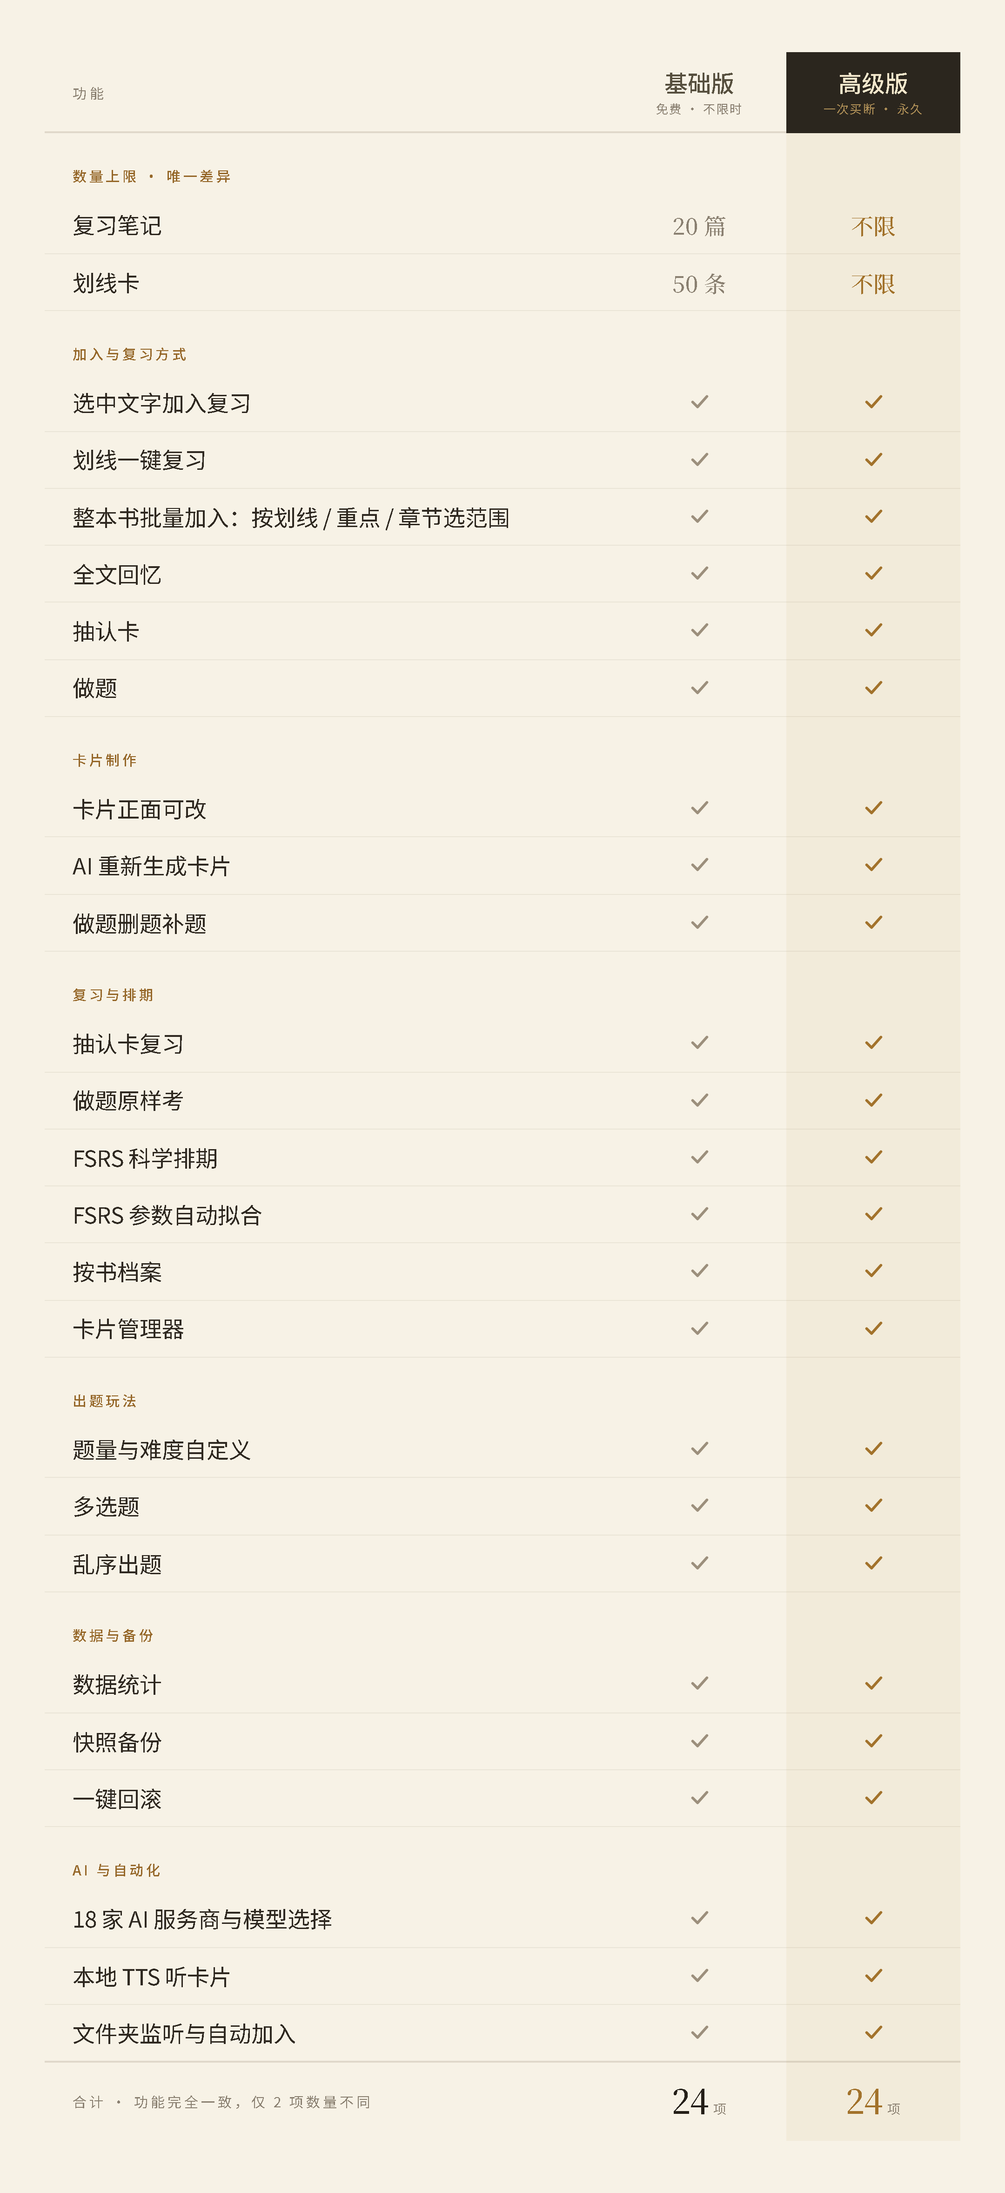
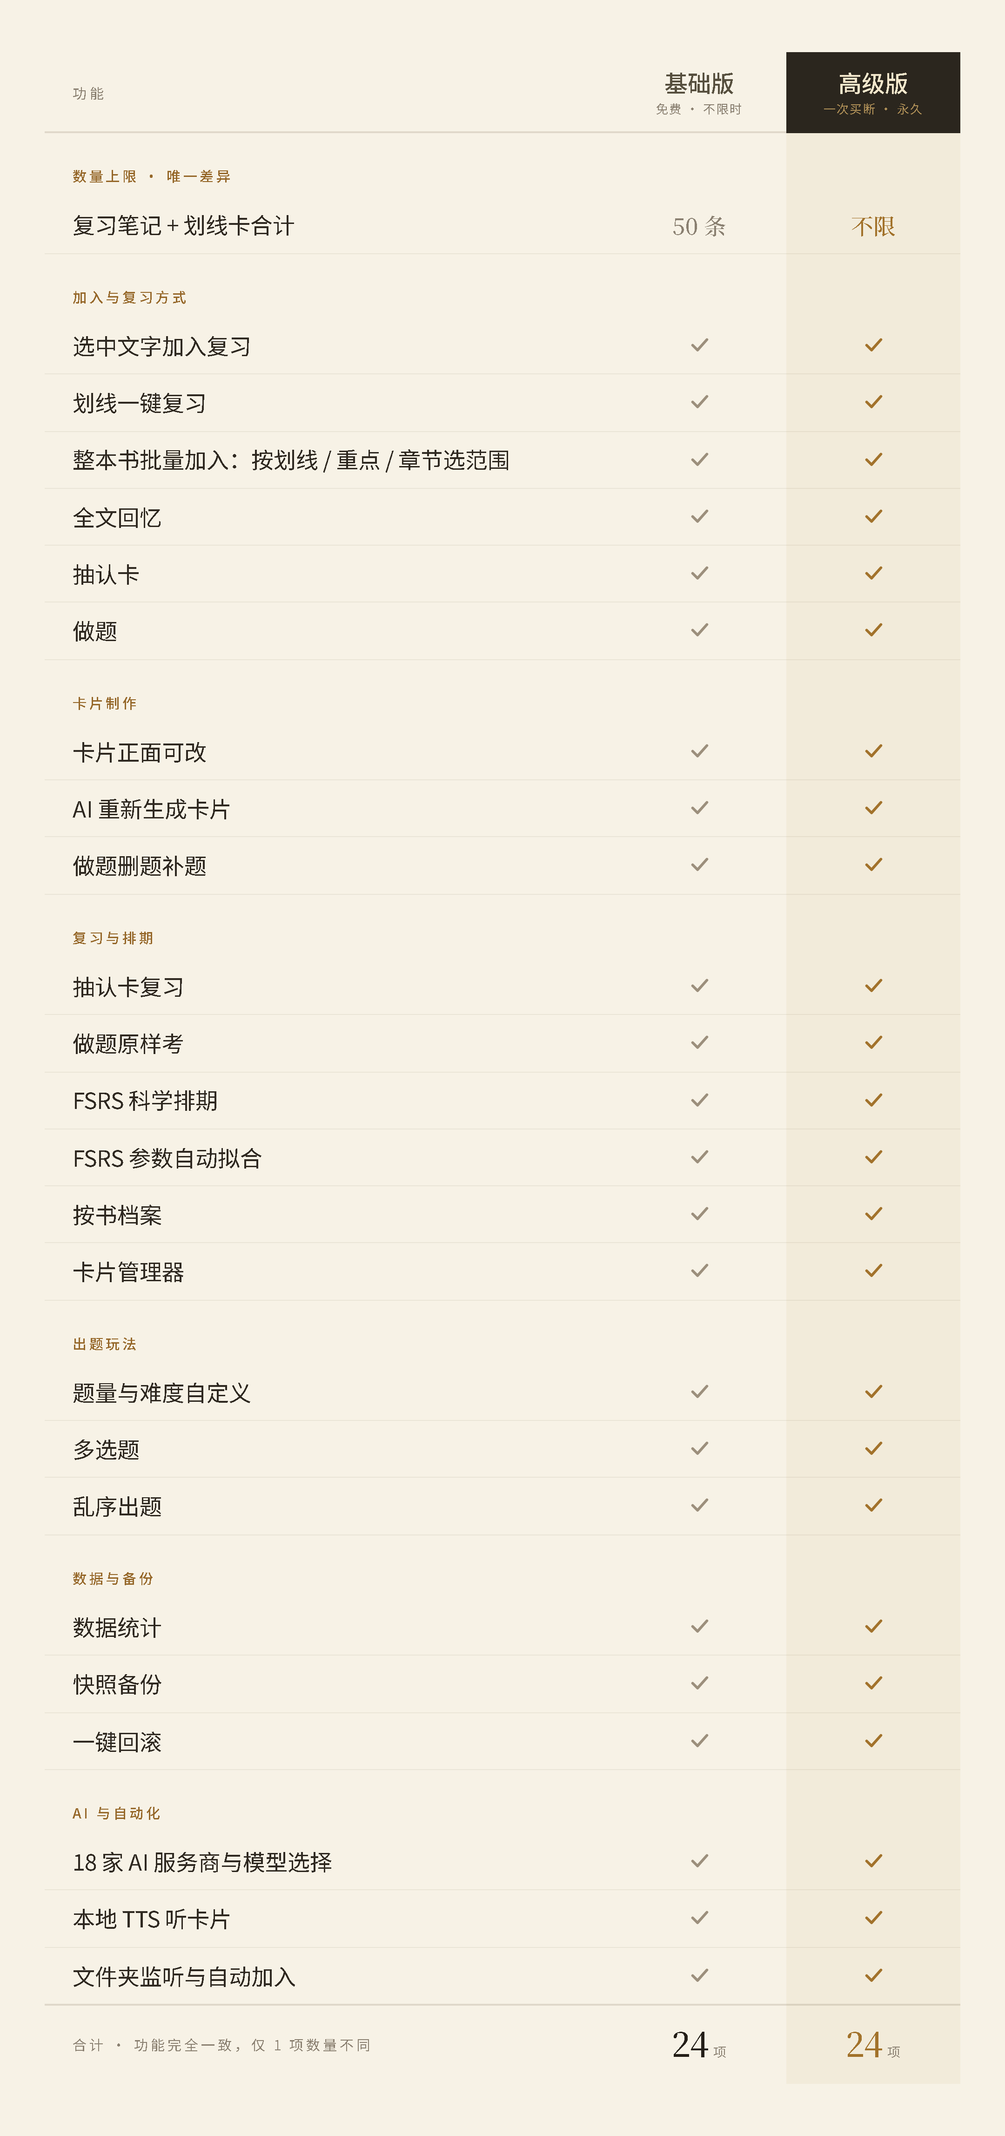
feat(quota): 基础版额度提到笔记与划线合计 50 条，README/弹窗/对照图同步

diff --git a/tests/entitlement.test.ts b/tests/entitlement.test.ts
@@ -20,23 +20,23 @@ afterEach(async () => {
 });
 
 describe('基础版上限 · 笔记 + 划线合计', () => {
-  it('合计上限是 20 条，不再分笔记和划线', () => {
-    expect(FREE_ITEM_LIMIT).toBe(20);
-    expect(totalOf({ notes: 12, cards: 8 })).toBe(20);
+  it('合计上限是 50 条，不再分笔记和划线', () => {
+    expect(FREE_ITEM_LIMIT).toBe(50);
+    expect(totalOf({ notes: 30, cards: 20 })).toBe(50);
     expect(totalOf({ notes: 0, cards: 50 })).toBe(50);
   });
 
-  it('单条：合计第 20 条还能加，第 21 条开始拦', () => {
+  it('单条：合计第 50 条还能加，第 51 条开始拦', () => {
     expect(canAdd({ notes: 0, cards: 0 })).toBe(true);
-    expect(canAdd({ notes: 19, cards: 0 })).toBe(true);
-    expect(canAdd({ notes: 10, cards: 10 })).toBe(false);
-    expect(canAdd({ notes: 0, cards: 20 })).toBe(false);
-    expect(canAdd({ notes: 0, cards: 21 })).toBe(false);
+    expect(canAdd({ notes: 49, cards: 0 })).toBe(true);
+    expect(canAdd({ notes: 30, cards: 20 })).toBe(false);
+    expect(canAdd({ notes: 0, cards: 50 })).toBe(false);
+    expect(canAdd({ notes: 0, cards: 51 })).toBe(false);
   });
 
   it('两类不再各数各的：笔记没满但合计满了照样拦', () => {
-    expect(quotaBlock({ notes: 5, cards: 15 }).ok).toBe(false);
-    expect(quotaBlock({ notes: 19, cards: 0 }).ok).toBe(true);
+    expect(quotaBlock({ notes: 5, cards: 45 }).ok).toBe(false);
+    expect(quotaBlock({ notes: 49, cards: 0 }).ok).toBe(true);
   });
 
   it('老数据超过上限时按已满处理，但不要求删除', () => {
@@ -47,26 +47,26 @@ describe('基础版上限 · 笔记 + 划线合计', () => {
   });
 
   it('还剩几个：已满给 0，不会给负数', () => {
-    expect(remaining({ notes: 0, cards: 0 })).toBe(20);
-    expect(remaining({ notes: 5, cards: 10 })).toBe(5);
-    expect(remaining({ notes: 25, cards: 0 })).toBe(0);
+    expect(remaining({ notes: 0, cards: 0 })).toBe(50);
+    expect(remaining({ notes: 5, cards: 10 })).toBe(35);
+    expect(remaining({ notes: 55, cards: 0 })).toBe(0);
   });
 
   it('用量一眼看清：已用合计、上限合计、还剩几条', () => {
-    expect(quotaInfo({ notes: 5, cards: 3 })).toEqual({ used: 8, limit: 20, remaining: 12, full: false });
-    expect(quotaInfo({ notes: 10, cards: 10 })).toEqual({ used: 20, limit: 20, remaining: 0, full: true });
+    expect(quotaInfo({ notes: 5, cards: 3 })).toEqual({ used: 8, limit: 50, remaining: 42, full: false });
+    expect(quotaInfo({ notes: 25, cards: 25 })).toEqual({ used: 50, limit: 50, remaining: 0, full: true });
   });
 
   it('老数据超过上限时用量照实报，不会把已用的数字藏起来', () => {
-    const info = quotaInfo({ notes: 26, cards: 0 });
-    expect(info.used).toBe(26);
+    const info = quotaInfo({ notes: 76, cards: 0 });
+    expect(info.used).toBe(76);
     expect(info.full).toBe(true);
     expect(info.remaining).toBe(0);
   });
 
-  it('拦下时说明「已用 20/20」，并且明说已有数据不会被删', () => {
-    const block = quotaBlock({ notes: 20, cards: 0 });
-    expect(block.message).toContain('已用 20/20');
+  it('拦下时说明「已用 50/50」，并且明说已有数据不会被删', () => {
+    const block = quotaBlock({ notes: 50, cards: 0 });
+    expect(block.message).toContain('已用 50/50');
     expect(block.message).toContain('不会被删');
     expect(block.message).toContain('激活高级版');
   });
@@ -78,32 +78,32 @@ describe('批量导入 · 超一次宽限', () => {
     expect(q).toEqual({ allowed: 8, overLimit: false });
   });
 
-  it('合计没满、加完越过 20：整批放行，但标超限让调用方提醒', () => {
-    const q = batchQuota({ notes: 5, cards: 5 }, 20);
-    expect(q).toEqual({ allowed: 20, overLimit: true });
+  it('合计没满、加完越过 50：整批放行，但标超限让调用方提醒', () => {
+    const q = batchQuota({ notes: 5, cards: 5 }, 50);
+    expect(q).toEqual({ allowed: 50, overLimit: true });
   });
 
-  it('刚好加到 20：放行但不算超限', () => {
-    expect(batchQuota({ notes: 10, cards: 0 }, 10)).toEqual({ allowed: 10, overLimit: false });
+  it('刚好加到 50：放行但不算超限', () => {
+    expect(batchQuota({ notes: 40, cards: 0 }, 10)).toEqual({ allowed: 10, overLimit: false });
   });
 
   it('导入前合计已满：整批拒绝，一条都不放', () => {
-    const q = batchQuota({ notes: 12, cards: 8 }, 5);
+    const q = batchQuota({ notes: 30, cards: 20 }, 5);
     expect(q).toEqual({ allowed: 0, overLimit: true });
   });
 
   it('迁移进来的超限老数据：再导入整批拒绝', () => {
-    expect(batchQuota({ notes: 26, cards: 0 }, 3).allowed).toBe(0);
+    expect(batchQuota({ notes: 76, cards: 0 }, 3).allowed).toBe(0);
   });
 
   it('空批直接放行，不算超限', () => {
-    expect(batchQuota({ notes: 20, cards: 0 }, 0)).toEqual({ allowed: 0, overLimit: false });
+    expect(batchQuota({ notes: 50, cards: 0 }, 0)).toEqual({ allowed: 0, overLimit: false });
   });
 
   it('提醒文案说清「这次全进、下次要升级」，不提拒绝、不含 emoji', () => {
-    const msg = overLimitMessage({ notes: 5, cards: 5 }, 20);
-    expect(msg).toContain('20 条已全部加入');
-    expect(msg).toContain('30 条');
+    const msg = overLimitMessage({ notes: 5, cards: 5 }, 50);
+    expect(msg).toContain('50 条已全部加入');
+    expect(msg).toContain('60 条');
     expect(msg).toContain('下次再加入需要先升级高级版');
     expect(msg).not.toContain('拒绝');
     expect(msg).not.toContain('未加入');
@@ -116,14 +116,14 @@ describe('高级版', () => {
     expect(state.paid).toBe(true);
     expect(canAdd({ notes: 9999, cards: 9999 })).toBe(true);
     expect(remaining({ notes: 9999, cards: 9999 })).toBe(Infinity);
-    expect(batchQuota({ notes: 9999, cards: 9999 }, 50)).toEqual({ allowed: 50, overLimit: false });
+    expect(batchQuota({ notes: 9999, cards: 9999 }, 80)).toEqual({ allowed: 80, overLimit: false });
     expect(licenseSummary()).toContain('高级版');
   });
 
   it.runIf(HAS_KEYS)('过期码不会把人留在高级版', async () => {
     const state = await refreshLicense(signCode({ id: 'REV-2026-0101', exp: Date.now() - 1000 }));
     expect(state.paid).toBe(false);
-    expect(canAdd({ notes: 20, cards: 0 })).toBe(false);
+    expect(canAdd({ notes: 50, cards: 0 })).toBe(false);
     expect(licenseSummary()).toContain('已过期');
   });
 
@@ -166,6 +166,6 @@ describe('高级版', () => {
   it('填错码只降级，不抛错', async () => {
     const state = await refreshLicense('这不是码');
     expect(state.paid).toBe(false);
-    expect(canAdd({ notes: 19, cards: 0 })).toBe(true);
+    expect(canAdd({ notes: 49, cards: 0 })).toBe(true);
   });
 });

diff --git a/src/data/entitlement.ts b/src/data/entitlement.ts
@@ -4,12 +4,12 @@
  * 与 bz / bz Reader / 归物本同构：一个完整包，运行期由激活码决定数量上限。
  *
  * 产品决策（2026-11-18，2026-11-20 调整）：基础版与高级版功能完全一致，只限数量——
- *   数量：基础版复习笔记 + 划线卡**合计 20 条**（两类不再分开计数），高级版不限；
+ *   数量：基础版复习笔记 + 划线卡**合计 50 条**（两类不再分开计数），高级版不限；
  *   能力：全部放开。现有四项免费可用，未来新增功能同样不对基础版关闭。
  *
  * 「超一次」宽限（2026-11-20）：按**导入后合计**决定——
- *   导入前合计 < 20、这批加完会越过 20：整批放行，但回一个 overLimit 给调用方提醒
- *   「这次还能加，下次要先升级」；一旦合计已达 20，再导入就整批拦。
+ *   导入前合计 < 50、这批加完会越过 50：整批放行，但回一个 overLimit 给调用方提醒
+ *   「这次还能加，下次要先升级」；一旦合计已达 50，再导入就整批拦。
  *   不记额外的「已超一次」状态——合计本身是否已满就是那个状态，重启也不会丢。
  *
  * 能力位保留为登记清单（PRO_CAPABILITIES / CAPABILITY_LABELS），
@@ -23,7 +23,7 @@ export const PURCHASE_URL = 'https://wzyp.cn/shop/IFCEI5I3';
 export const GROUP_ID = '1130883117';
 
 /** 基础版：复习条目合计上限（笔记 + 划线卡） */
-export const FREE_ITEM_LIMIT = 20;
+export const FREE_ITEM_LIMIT = 50;
 
 export interface LicenseState {
   /** 是否已解锁高级版 */
@@ -67,7 +67,7 @@ export function totalOf(counts: PlanCounts): number {
   return counts.notes + counts.cards;
 }
 
-/** 单条能不能再加一条（笔记或卡）：合计没到 20 就行 */
+/** 单条能不能再加一条（笔记或卡）：合计没到 50 就行 */
 export function canAdd(counts: PlanCounts): boolean {
   return isPaid() || totalOf(counts) < FREE_ITEM_LIMIT;
 }
@@ -87,7 +87,7 @@ export function remaining(counts: PlanCounts): number {
  * - 导入前没满、但加完会越过上限：整批放行，`overLimit = true` 让调用方提醒
  *   「这次还能加，下次要先升级」——用户要的「允许超一次」就是这个分支。
  *
- * 整批一致放行或整批一致拒绝，不做「前 20 条进、后面拒」的逐条截断：
+ * 整批一致放行或整批一致拒绝，不做「前 50 条进、后面拒」的逐条截断：
  * 一次导 60 张书卡，要么全进，要么全不进，别让用户拿到半本书。
  */
 export interface BatchQuota {
@@ -114,7 +114,7 @@ export interface QuotaInfo {
 
 /**
  * 合计用量。`used` 照实报——迁移进来的老数据可能早就超过上限，
- * 这里不把它按上限截断，否则用户看到「20/20」却明明有 26 条，只会觉得插件在骗人。
+ * 这里不把它按上限截断，否则用户看到「50/50」却明明有 76 条，只会觉得插件在骗人。
  */
 export function quotaInfo(counts: PlanCounts): QuotaInfo {
   const used = totalOf(counts);
@@ -133,7 +133,7 @@ export function quotaInfo(counts: PlanCounts): QuotaInfo {
  * `counts` 是**当前已存在**的条数：迁移进来的老数据可能早就超过上限，
  * 那种情况一律按「已满」处理——不删用户的东西，只是不能再加新的。
  *
- * 文案刻意写成「已用 20/20」而不是「最多 20 条」：用户要的是自己现在处在
+ * 文案刻意写成「已用 50/50」而不是「最多 50 条」：用户要的是自己现在处在
  * 哪一格，不是再读一遍规则；后面那句「已有数据不会被删」是防恐慌的，
  * 上限提示最容易被误解成「要删我的东西」。
  */

diff --git a/assets/plan-compare/index.html b/assets/plan-compare/index.html
@@ -193,9 +193,9 @@
       <tbody></tbody>
       <tfoot>
         <tr>
-          <td class="f">合计 · 功能完全一致，仅 2 项数量不同</td>
-          <td class="c free"><b>24</b><em>项</em></td>
-          <td class="c pro"><b>24</b><em>项</em></td>
+          <td class="f" id="footLabel">合计 · 功能完全一致</td>
+          <td class="c free"><b id="footFree">24</b><em>项</em></td>
+          <td class="c pro"><b id="footPro">24</b><em>项</em></td>
         </tr>
       </tfoot>
     </table>
@@ -206,7 +206,7 @@
 <script>
 const GROUPS = [
   ['数量上限 · 唯一差异', [
-    ['复习笔记 + 划线卡合计', '20 条', '不限'],
+    ['复习笔记 + 划线卡合计', '50 条', '不限'],
   ]],
   ['加入与复习方式', [
     ['选中文字加入复习', 1, 1],
@@ -263,6 +263,16 @@ const rows = GROUPS.map(([name, list]) =>
 ).join('');
 
 document.querySelector('#plan tbody').innerHTML = rows;
+
+/* 页脚的差异项数与功能项数由数据算，不再手写：改了 GROUPS 又忘了改页脚，
+   图上就会自相矛盾（一行数量差异却写着「2 项」）。 */
+const allRows = GROUPS.flatMap(([, list]) => list);
+const diffRows = allRows.filter(([, free, pro]) => String(free) !== String(pro)).length;
+const sameRows = allRows.length - diffRows;
+document.querySelector('#footLabel').textContent =
+  `合计 · 功能完全一致，仅 ${diffRows} 项数量不同`;
+document.querySelector('#footFree').textContent = String(sameRows);
+document.querySelector('#footPro').textContent = String(sameRows);
 </script>
 </body>
 </html>

diff --git a/tests/capability.test.ts b/tests/capability.test.ts
@@ -3,7 +3,7 @@
  *
  * 能力位保留为登记清单（供界面文案与测试引用），但门控恒放行：
  * 现在四个能力免费可用，未来新增的能力同样不对基础版关闭。
- * 唯一差异是复习笔记 + 划线卡合计 20 条的数量上限。
+ * 唯一差异是复习笔记 + 划线卡合计 50 条的数量上限。
  */
 import { beforeEach, describe, expect, it } from 'vitest';
 import {
@@ -40,16 +40,16 @@ describe('能力位 · 全部放开', () => {
     expect(canUseCapability('futureFeature' as ProCapability)).toBe(true);
   });
 
-  it('数量限制不受能力位影响，仍是合计 20 条', () => {
+  it('数量限制不受能力位影响，仍是合计 50 条', () => {
     expect(canAdd({ notes: 0, cards: 0 })).toBe(true);
     expect(canAdd({ notes: FREE_ITEM_LIMIT, cards: 0 })).toBe(false);
-    expect(canAdd({ notes: 5, cards: 15 })).toBe(false);
+    expect(canAdd({ notes: 5, cards: 45 })).toBe(false);
   });
 
   it('授权状态文案只谈数量，不再说功能未解锁', () => {
     const free = licenseSummary();
     expect(free).not.toContain('未解锁');
-    expect(free).toContain('20 条');
+    expect(free).toContain('50 条');
   });
 });
 

diff --git a/tests/review-bridge-ext.test.ts b/tests/review-bridge-ext.test.ts
@@ -60,16 +60,16 @@ describe('withoutPrepared：已带题面/题目的卡不再排队二次生成', 
   });
 });
 
-describe('cardQuota：额度预知（笔记 + 划线合计 20）', () => {
-  it('基础版合计 20 条，报已用/上限/剩余', () => {
+describe('cardQuota：额度预知（笔记 + 划线合计 50）', () => {
+  it('基础版合计 50 条，报已用/上限/剩余', () => {
     const q = cardQuota({ notes: 3, cards: 7 });
     expect(q.used).toBe(10);
-    expect(q.limit).toBe(20);
-    expect(q.remaining).toBe(10);
+    expect(q.limit).toBe(50);
+    expect(q.remaining).toBe(40);
     expect(q.full).toBe(false);
   });
   it('合计满了就是满了', () => {
-    expect(cardQuota({ notes: 5, cards: 15 }).full).toBe(true);
+    expect(cardQuota({ notes: 5, cards: 45 }).full).toBe(true);
     expect(cardQuota({ notes: 0, cards: 60 }).remaining).toBe(0);
   });
 });

diff --git a/src/review/data.ts b/src/review/data.ts
@@ -435,7 +435,7 @@ export class ReviewDataManager {
    *  已存在/空路径跳过不抛错；返回 { added, skipped, rejected, overLimitMessage } 供调用方通知口径。
    *
    *  配额按整批判（2026-11-20「超一次」）：与 addCards 同口径——合计已满就整批拒，
-   *  没满就整批放行（哪怕加完越过 20），overLimitMessage 交给调用方提醒「下次要先升级」。 */
+   *  没满就整批放行（哪怕加完越过 50），overLimitMessage 交给调用方提醒「下次要先升级」。 */
   addItems(
     list: Array<{ filePath: string; fileName?: string }>,
   ): Promise<{ added: number; skipped: number; rejected: number; overLimitMessage: string }> {

diff --git a/src/data/migrate.ts b/src/data/migrate.ts
@@ -205,7 +205,7 @@ export async function migrateFromBz(app: App, settings: BzSettings): Promise<Mig
     return { ok: false, message: `写入失败：${(e as Error)?.message || '未知错误'}` };
   }
   /* 导入不按配额截断——老用户攒的数据不该因为换了插件就少一半。但**得说一声**：
-     85 条原样搬进来，而免费版上限是合计 20 条，用户完全不知道自己在超限状态，
+     85 条原样搬进来，而免费版上限是合计 50 条，用户完全不知道自己在超限状态，
      之后加任何新笔记都被拦，只会觉得「导入之后就不能用了」。 */
   const over = Math.max(0, items.length - FREE_ITEM_LIMIT);
   return {

diff --git a/src/main.ts b/src/main.ts
@@ -3,7 +3,7 @@
  *
  * 与 bz 的关系：复习计划从 bz 独立成付费插件，**bz 里那份原样保留不动**。
  * 付费形态照 bz Reader / 归物本：一个完整插件包，激活码离线验签；
- * 基础版笔记与划线卡合计 20 条，高级版不限，功能两边完全一致。
+ * 基础版笔记与划线卡合计 50 条，高级版不限，功能两边完全一致。
  *
  * 数据：自己的 review.json（默认 CONFIG/REVIEW），与 bz 的 CONFIG/STORAGE
  * 分开存，两个插件同时装也不会互相覆盖。

diff --git a/src/review/ui/unlock-dialog.ts b/src/review/ui/unlock-dialog.ts
@@ -20,7 +20,7 @@ const GROUPS: Array<{ title: string; rows: PlanRow[] }> = [
   {
     title: '数量上限 · 唯一差异',
     rows: [
-      { label: '复习笔记 + 划线卡合计', free: '20 条', pro: '不限' },
+      { label: '复习笔记 + 划线卡合计', free: '50 条', pro: '不限' },
     ],
   },
   {

diff --git a/README.md b/README.md
@@ -30,11 +30,11 @@
 
 ## 功能
 
-基础版免费、不限时，笔记与划线卡合计限 20 条；高级版不限量。两版功能完全一样，以后新增的功能也一样。
+基础版免费、不限时，笔记与划线卡合计限 50 条；高级版不限量。两版功能完全一样，以后新增的功能也一样。
 
 | 类别 | 功能 | 基础版 | 高级版 |
 |---|---|:---:|:---:|
-| **数量上限 · 唯一差异** | 复习笔记 + 划线卡合计 | 20 条 | 不限 |
+| **数量上限 · 唯一差异** | 复习笔记 + 划线卡合计 | 50 条 | 不限 |
 | **加入与复习方式** | 选中文字加入复习 | ✓ | ✓ |
 |  | 划线一键复习 | ✓ | ✓ |
 |  | 整本书批量加入：按划线 / 重点 / 章节选范围 | ✓ | ✓ |
@@ -141,7 +141,7 @@
 
 - **会和其他插件打架吗？** 不会。界面是自己的标签页，生成的 DOM 与 CSS 都限定在插件自己的作用域内（统一挂 `data-bzrv`），不污染别人的样式；数据也和 bz 分开存。
 - **和 bz 里的复习计划是什么关系？** 从 bz 独立出来的插件，bz 里那份原样保留。两边各存各的，可以同时装、互不覆盖，也能一键把 bz 的计划导进来。
-- **超过免费上限会删我的卡吗？** 不会。已有的笔记和卡继续照常复习，只是合计满 20 条后不能再加新的；升级后立即放开。批量导入时如果这次会越过 20 条，仍会让你整批加进去，只提醒一句下次要先升级。
+- **超过免费上限会删我的卡吗？** 不会。已有的笔记和卡继续照常复习，只是合计满 50 条后不能再加新的；升级后立即放开。批量导入时如果这次会越过 50 条，仍会让你整批加进去，只提醒一句下次要先升级。
 - **换电脑怎么办？** 库同步过去，排期和复习历史跟着走；高级版在新设备上重新填一次激活码。
 - **手机上要单独买吗？** 不用，同一个包，桌面与移动都包含在内。
 - **没装 bz Reader 能用吗？** 能。笔记照样能排进计划，抽认卡和做题两种方式都能用。

diff --git a/docs/note-v1.0.0.md b/docs/note-v1.0.0.md
@@ -23,4 +23,4 @@
 - 窄窗口下筛选栏「不限状态」被挤压成半截字，已改为放不下就换行。
 - AI 偶尔只回半句填空，现在降级为看原文，不再让用户背残句。
 
-> 基础版与高级版只有数量上限不同（笔记与划线合计 20 条），功能完全一样，以后新增的功能也一样。
+> 基础版与高级版只有数量上限不同（笔记与划线合计 50 条），功能完全一样，以后新增的功能也一样。
